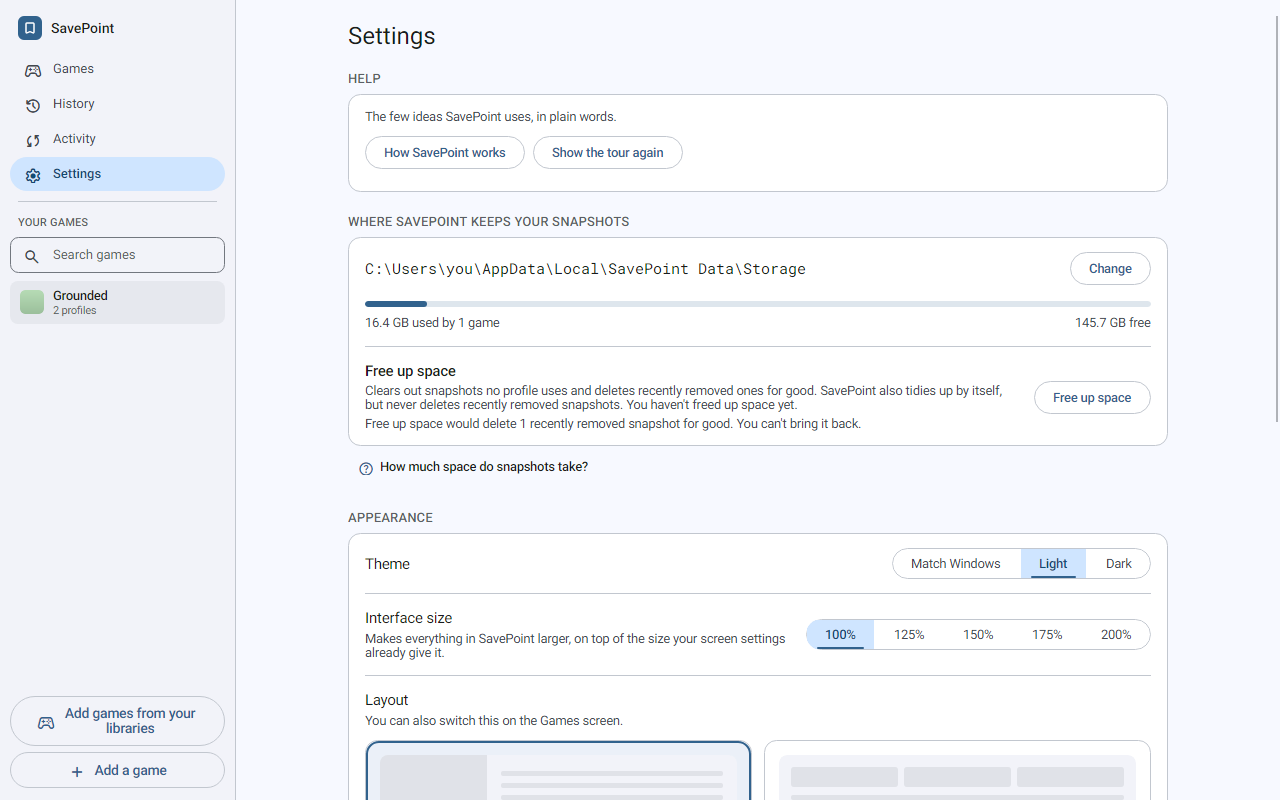
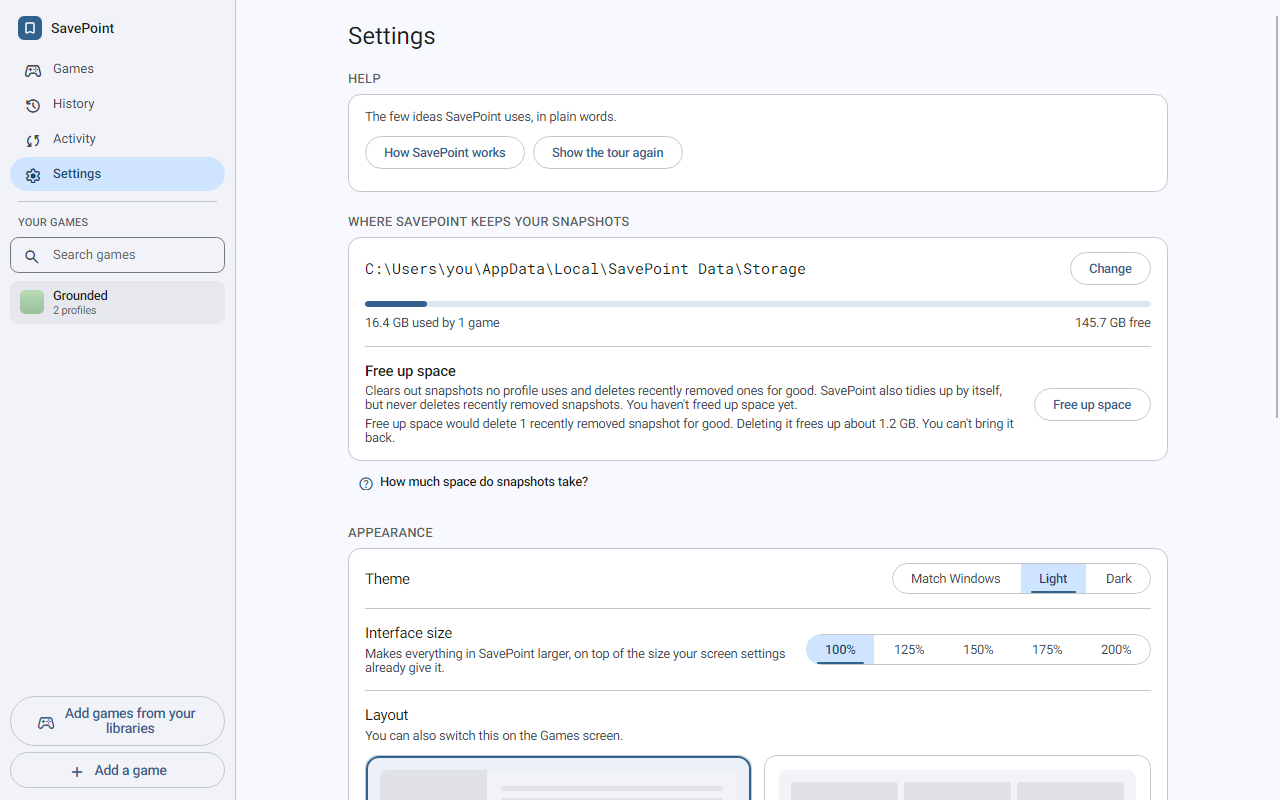
Show the Free up space size line in the Settings screenshot
The screenshot job never gave the fake backend a Free up space estimate, so
Settings could not show "Deleting it frees up about 1.2 GB". The Settings
scene now sets the estimate to 1.2 GB and waits until the preview line holds
the size before drawing. Regenerated the screenshots; only settings.png
changed, and it shows the new line.

Recorded red for the earlier identity tests (HostIdentityTests): on the Linux
VM, moving the statx device major offset from 136 to 128 in a throwaway commit
made HostIdentityTests.On_Linux_the_identity_is_the_device_and_inode_the_system_reports
fail with "Expected: 34359738370, Actual: 2" (observed by the agent that wrote
it; that commit was not kept).

diff --git a/tests/Savepoint.App.Tests/Features/DocScreenshots/DocScreenshotJob.cs b/tests/Savepoint.App.Tests/Features/DocScreenshots/DocScreenshotJob.cs
@@ -6,8 +6,10 @@ using Avalonia.VisualTree;
 using Savepoint.App.Features.Activity;
 using Savepoint.App.Features.Editor;
 using Savepoint.App.Features.Games;
+using Savepoint.App.Features.Settings;
 using Savepoint.App.Features.Shell;
 using Savepoint.App.Tests.Fakes;
+using Savepoint.App.Tests.Features.Common;
 using Savepoint.App.Tests.Features.EndToEnd;
 using Savepoint.App.Tests.Features.Games;
 using Savepoint.App.Tests.Theme;
@@ -199,7 +201,11 @@ internal static class DocScreenshotJob
     private static async Task SettingsScreen(string path)
     {
         using var app = await StartAsync(Full());
-        app.Shell.Navigate(NavDestination.Settings);
+
+        // The size arrives after the count, so the picture waits for it.
+        app.Backend.State.FreeUpEstimate = 1_200_000_000;
+        var settings = app.Show<SettingsScreenViewModel>(NavDestination.Settings);
+        Assert.True(await UiWait.UntilAsync(() => settings.Storage.OptimizePreview.Contains("about 1.2 GB", StringComparison.Ordinal)), "Settings never showed how much space Free up space frees.");
 
         Draw(app, path);
     }
